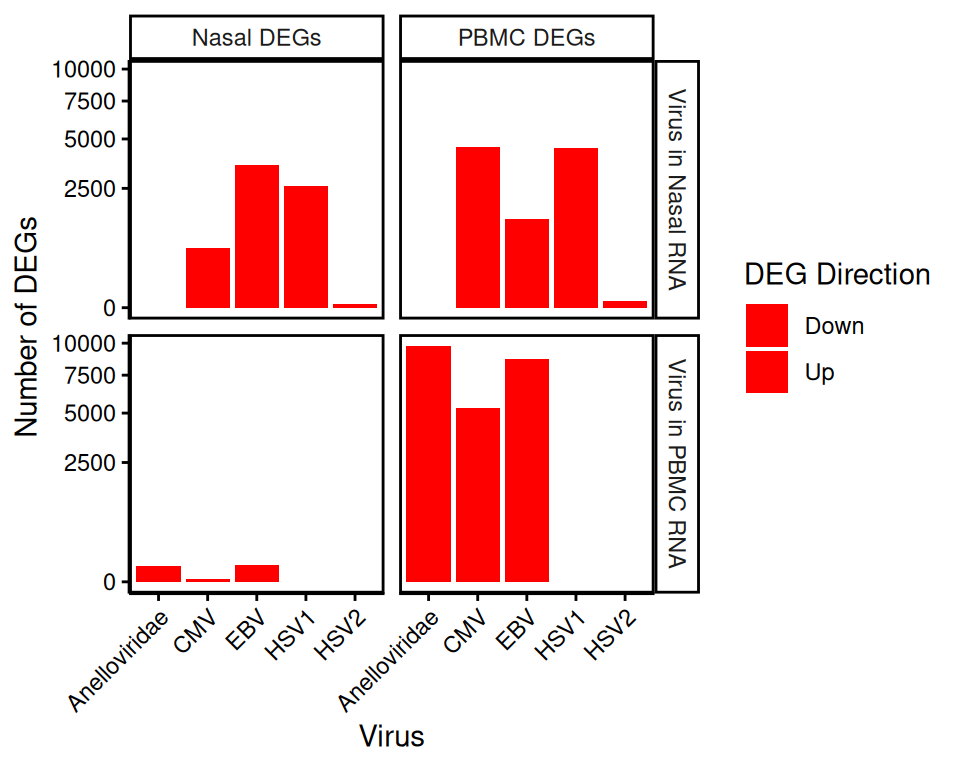
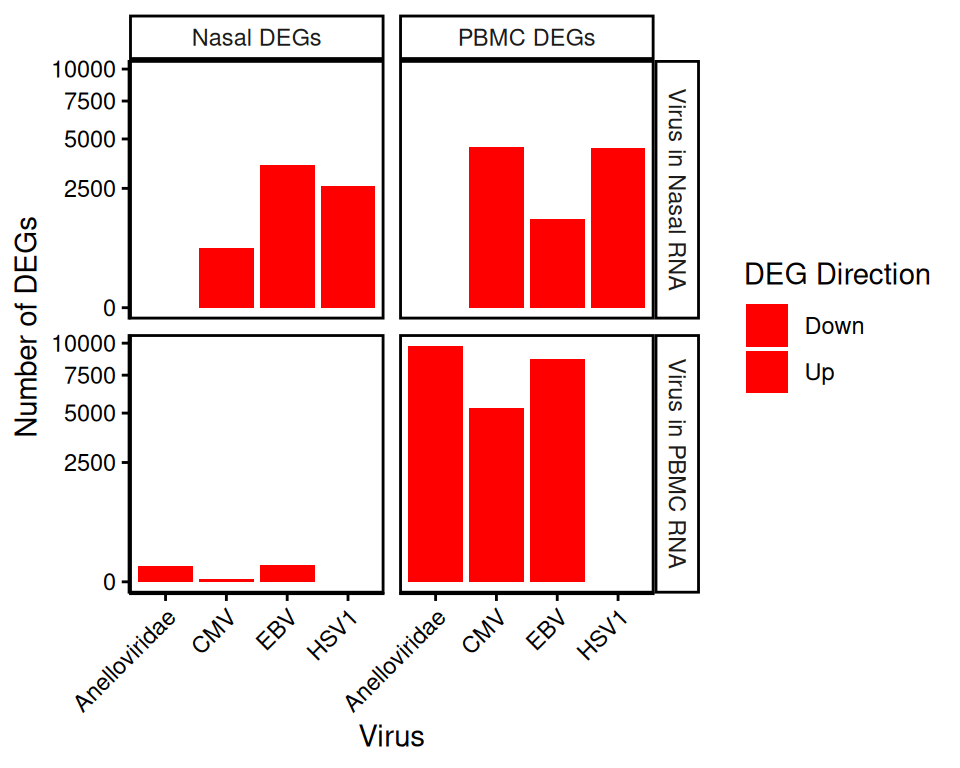
Final version of Figure 6

diff --git a/chronic_viruses_manuscript/Figure6/src/Figure6.html b/chronic_viruses_manuscript/Figure6/src/Figure6.html
@@ -141,14 +141,16 @@ The following object is masked from 'package:readr':
 <span id="cb5-8"><a href="#cb5-8" aria-hidden="true" tabindex="-1"></a>         <span class="sc">-</span><span class="fu">starts_with</span>(<span class="st">"Enterovirus"</span>),</span>
 <span id="cb5-9"><a href="#cb5-9" aria-hidden="true" tabindex="-1"></a>         <span class="sc">-</span><span class="fu">starts_with</span>(<span class="st">"Anelloviridae.ea"</span>),</span>
 <span id="cb5-10"><a href="#cb5-10" aria-hidden="true" tabindex="-1"></a>         <span class="sc">-</span><span class="fu">starts_with</span>(<span class="st">"Anelloviridae.nasal"</span>),</span>
-<span id="cb5-11"><a href="#cb5-11" aria-hidden="true" tabindex="-1"></a>         <span class="sc">-</span><span class="fu">ends_with</span>(<span class="st">".ea"</span>)) <span class="sc">%&gt;%</span></span>
-<span id="cb5-12"><a href="#cb5-12" aria-hidden="true" tabindex="-1"></a>  dplyr<span class="sc">::</span><span class="fu">rename</span>(<span class="st">"Betacoronavirus.nasal"</span> <span class="ot">=</span> <span class="st">"SARS-CoV-2.nasal"</span>)</span></code><button title="Copy to Clipboard" class="code-copy-button"><i class="bi"></i></button></pre></div>
+<span id="cb5-11"><a href="#cb5-11" aria-hidden="true" tabindex="-1"></a>         <span class="sc">-</span><span class="fu">starts_with</span>(<span class="st">"Human alphaherpesvirus 1 (HSV1).pbmc"</span>),</span>
+<span id="cb5-12"><a href="#cb5-12" aria-hidden="true" tabindex="-1"></a>         <span class="sc">-</span><span class="fu">starts_with</span>(<span class="st">"Human alphaherpesvirus 2 (HSV2).pbmc"</span>),</span>
+<span id="cb5-13"><a href="#cb5-13" aria-hidden="true" tabindex="-1"></a>         <span class="sc">-</span><span class="fu">ends_with</span>(<span class="st">".ea"</span>)) <span class="sc">%&gt;%</span></span>
+<span id="cb5-14"><a href="#cb5-14" aria-hidden="true" tabindex="-1"></a>  dplyr<span class="sc">::</span><span class="fu">rename</span>(<span class="st">"Betacoronavirus.nasal"</span> <span class="ot">=</span> <span class="st">"SARS-CoV-2.nasal"</span>)</span></code><button title="Copy to Clipboard" class="code-copy-button"><i class="bi"></i></button></pre></div>
 <div class="cell-output cell-output-stderr">
 <pre><code>New names:
-Rows: 4654 Columns: 31
+Rows: 4654 Columns: 33
 ── Column specification
 ──────────────────────────────────────────────────────── Delimiter: "," chr
-(1): event_id dbl (30): ...1, Human gammaherpesvirus 4 (EBV).pbmc, Human
+(1): event_id dbl (32): ...1, Human gammaherpesvirus 4 (EBV).pbmc, Human
 betaherpesvirus 5...
 ℹ Use `spec()` to retrieve the full column specification for this data. ℹ
 Specify the column types or set `show_col_types = FALSE` to quiet this message.
@@ -278,9 +280,9 @@ vignette('accessing_ensembl', package = 'biomaRt')Error in curl::curl_fetch_memo
 <span id="cb12-96"><a href="#cb12-96" aria-hidden="true" tabindex="-1"></a>tmp <span class="ot">&lt;-</span> tmp[tmp<span class="sc">$</span>event_id <span class="sc">%in%</span> <span class="fu">rownames</span>(counts), ]</span>
 <span id="cb12-97"><a href="#cb12-97" aria-hidden="true" tabindex="-1"></a></span>
 <span id="cb12-98"><a href="#cb12-98" aria-hidden="true" tabindex="-1"></a>metaa <span class="ot">&lt;-</span> tmp <span class="sc">%&gt;%</span> <span class="fu">left_join</span>(virus_pos)</span>
-<span id="cb12-99"><a href="#cb12-99" aria-hidden="true" tabindex="-1"></a>design <span class="ot">&lt;-</span> <span class="fu">model.matrix</span>(<span class="sc">~</span> discretized_admit_age_quantile <span class="sc">+</span> sex <span class="sc">+</span> event_type <span class="sc">+</span> trajectory_group <span class="sc">+</span> Betacoronavirus.nasal <span class="sc">+</span> group, <span class="do">## Can consider adding TG back in</span></span>
+<span id="cb12-99"><a href="#cb12-99" aria-hidden="true" tabindex="-1"></a>design <span class="ot">&lt;-</span> <span class="fu">model.matrix</span>(<span class="sc">~</span> discretized_admit_age_quantile <span class="sc">+</span> sex <span class="sc">+</span> event_type <span class="sc">+</span> trajectory_group <span class="sc">+</span> Betacoronavirus.nasal <span class="sc">+</span> group, </span>
 <span id="cb12-100"><a href="#cb12-100" aria-hidden="true" tabindex="-1"></a>                       <span class="at">data=</span>metaa) </span>
-<span id="cb12-101"><a href="#cb12-101" aria-hidden="true" tabindex="-1"></a></span>
+<span id="cb12-101"><a href="#cb12-101" aria-hidden="true" tabindex="-1"></a><span class="fu">browser</span>()</span>
 <span id="cb12-102"><a href="#cb12-102" aria-hidden="true" tabindex="-1"></a>vwts <span class="ot">&lt;-</span> <span class="fu">voom</span>(<span class="fu">t</span>(counts), </span>
 <span id="cb12-103"><a href="#cb12-103" aria-hidden="true" tabindex="-1"></a>             <span class="at">design =</span> design,</span>
 <span id="cb12-104"><a href="#cb12-104" aria-hidden="true" tabindex="-1"></a>             <span class="at">normalize.method =</span> <span class="st">"quantile"</span>,</span>
@@ -971,25 +973,26 @@ Specify the column types or set `show_col_types = FALSE` to quiet this message.
 <span id="cb72-5"><a href="#cb72-5" aria-hidden="true" tabindex="-1"></a><span class="do">## transformed). Easiest solution: just remove the color distinguishing</span></span>
 <span id="cb72-6"><a href="#cb72-6" aria-hidden="true" tabindex="-1"></a>ggs8 <span class="ot">&lt;-</span> <span class="fu">rbind.data.frame</span>(pbmc_diff <span class="sc">%&gt;%</span> <span class="fu">mutate</span>(<span class="at">omic =</span> <span class="st">"PBMC DEGs"</span>),</span>
 <span id="cb72-7"><a href="#cb72-7" aria-hidden="true" tabindex="-1"></a>                 nasal_diff <span class="sc">%&gt;%</span> <span class="fu">mutate</span>(<span class="at">omic =</span> <span class="st">"Nasal DEGs"</span>)) <span class="sc">%&gt;%</span></span>
-<span id="cb72-8"><a href="#cb72-8" aria-hidden="true" tabindex="-1"></a>  <span class="fu">mutate</span>(<span class="at">Tissue =</span> <span class="fu">ifelse</span>(<span class="fu">grepl</span>(<span class="st">".nasal"</span>, virus), <span class="st">"Virus in Nasal RNA"</span>, <span class="st">"Virus in PBMC RNA"</span>)) <span class="sc">%&gt;%</span></span>
-<span id="cb72-9"><a href="#cb72-9" aria-hidden="true" tabindex="-1"></a>  <span class="fu">mutate</span>(<span class="at">virus =</span> <span class="fu">gsub</span>(<span class="st">"</span><span class="sc">\\</span><span class="st">..*"</span>, <span class="st">""</span>, virus)) <span class="sc">%&gt;%</span></span>
-<span id="cb72-10"><a href="#cb72-10" aria-hidden="true" tabindex="-1"></a>  <span class="fu">mutate</span>(<span class="at">virus =</span> <span class="fu">gsub</span>(<span class="st">".*</span><span class="sc">\\</span><span class="st">("</span>, <span class="st">""</span>, <span class="fu">gsub</span>(<span class="st">")"</span>, <span class="st">""</span>, virus))) <span class="sc">%&gt;%</span></span>
-<span id="cb72-11"><a href="#cb72-11" aria-hidden="true" tabindex="-1"></a>  <span class="fu">mutate</span>(<span class="at">virus =</span> <span class="fu">gsub</span>(<span class="st">"Simplexvirus"</span>, <span class="st">"HSV"</span>, virus)) <span class="sc">%&gt;%</span></span>
-<span id="cb72-12"><a href="#cb72-12" aria-hidden="true" tabindex="-1"></a>  <span class="fu">mutate</span>(<span class="at">direction =</span> <span class="fu">ifelse</span>(logFC <span class="sc">&gt;</span> <span class="dv">0</span>, <span class="st">"Up"</span>, <span class="st">"Down"</span>)) <span class="sc">%&gt;%</span></span>
-<span id="cb72-13"><a href="#cb72-13" aria-hidden="true" tabindex="-1"></a>  <span class="fu">filter</span>(adj.P.Val <span class="sc">&lt;=</span> <span class="fl">0.01</span>) <span class="sc">%&gt;%</span></span>
-<span id="cb72-14"><a href="#cb72-14" aria-hidden="true" tabindex="-1"></a>  <span class="fu">group_by</span>(Tissue, omic, virus, direction) <span class="sc">%&gt;%</span></span>
-<span id="cb72-15"><a href="#cb72-15" aria-hidden="true" tabindex="-1"></a>  dplyr<span class="sc">::</span><span class="fu">summarize</span>(<span class="at">count =</span> <span class="fu">n</span>()) <span class="sc">%&gt;%</span></span>
-<span id="cb72-16"><a href="#cb72-16" aria-hidden="true" tabindex="-1"></a>  <span class="fu">ggplot</span>(<span class="fu">aes</span>(<span class="at">x=</span>virus, <span class="at">y =</span> count, <span class="at">fill =</span> direction)) <span class="sc">+</span></span>
-<span id="cb72-17"><a href="#cb72-17" aria-hidden="true" tabindex="-1"></a>  <span class="fu">geom_bar</span>(<span class="at">stat =</span> <span class="st">"identity"</span>, <span class="at">position =</span> <span class="st">"stack"</span>) <span class="sc">+</span></span>
-<span id="cb72-18"><a href="#cb72-18" aria-hidden="true" tabindex="-1"></a>  <span class="fu">facet_grid</span>(Tissue <span class="sc">~</span> omic, <span class="at">drop =</span> <span class="cn">FALSE</span>) <span class="sc">+</span></span>
-<span id="cb72-19"><a href="#cb72-19" aria-hidden="true" tabindex="-1"></a>  <span class="fu">theme_classic</span>() <span class="sc">+</span></span>
-<span id="cb72-20"><a href="#cb72-20" aria-hidden="true" tabindex="-1"></a>  <span class="fu">theme</span>(<span class="at">axis.text.x =</span> <span class="fu">element_text</span>(<span class="at">angle =</span> <span class="dv">45</span>, <span class="at">vjust =</span> <span class="dv">1</span>, <span class="at">hjust=</span><span class="dv">1</span>)) <span class="sc">+</span></span>
-<span id="cb72-21"><a href="#cb72-21" aria-hidden="true" tabindex="-1"></a>  <span class="fu">ylab</span>(<span class="st">"Number of DEGs"</span>) <span class="sc">+</span></span>
-<span id="cb72-22"><a href="#cb72-22" aria-hidden="true" tabindex="-1"></a>  <span class="fu">scale_fill_manual</span>(<span class="at">values =</span> <span class="fu">c</span>(<span class="st">"red"</span>, <span class="st">"red"</span>), <span class="at">name =</span> <span class="st">"DEG Direction"</span>) <span class="sc">+</span></span>
-<span id="cb72-23"><a href="#cb72-23" aria-hidden="true" tabindex="-1"></a>  <span class="fu">theme</span>(<span class="at">axis.text =</span> <span class="fu">element_text</span>(<span class="at">color =</span> <span class="st">"black"</span>),</span>
-<span id="cb72-24"><a href="#cb72-24" aria-hidden="true" tabindex="-1"></a>        <span class="at">axis.ticks =</span> <span class="fu">element_line</span>(<span class="at">color =</span> <span class="st">"black"</span>),</span>
-<span id="cb72-25"><a href="#cb72-25" aria-hidden="true" tabindex="-1"></a>         <span class="at">panel.border =</span> <span class="fu">element_rect</span>(<span class="at">color =</span> <span class="st">"black"</span>, <span class="at">fill =</span> <span class="cn">NA</span>, <span class="at">size =</span> <span class="dv">1</span>)) <span class="sc">+</span></span>
-<span id="cb72-26"><a href="#cb72-26" aria-hidden="true" tabindex="-1"></a>  <span class="fu">xlab</span>(<span class="st">"Virus"</span>) <span class="sc">+</span>  <span class="fu">scale_y_continuous</span>(<span class="at">trans=</span><span class="st">'sqrt'</span>)</span></code><button title="Copy to Clipboard" class="code-copy-button"><i class="bi"></i></button></pre></div>
+<span id="cb72-8"><a href="#cb72-8" aria-hidden="true" tabindex="-1"></a>  <span class="fu">filter</span>(virus <span class="sc">!=</span> <span class="st">"Human alphaherpesvirus 2 (HSV2).nasal"</span>) <span class="sc">%&gt;%</span></span>
+<span id="cb72-9"><a href="#cb72-9" aria-hidden="true" tabindex="-1"></a>  <span class="fu">mutate</span>(<span class="at">Tissue =</span> <span class="fu">ifelse</span>(<span class="fu">grepl</span>(<span class="st">".nasal"</span>, virus), <span class="st">"Virus in Nasal RNA"</span>, <span class="st">"Virus in PBMC RNA"</span>)) <span class="sc">%&gt;%</span></span>
+<span id="cb72-10"><a href="#cb72-10" aria-hidden="true" tabindex="-1"></a>  <span class="fu">mutate</span>(<span class="at">virus =</span> <span class="fu">gsub</span>(<span class="st">"</span><span class="sc">\\</span><span class="st">..*"</span>, <span class="st">""</span>, virus)) <span class="sc">%&gt;%</span></span>
+<span id="cb72-11"><a href="#cb72-11" aria-hidden="true" tabindex="-1"></a>  <span class="fu">mutate</span>(<span class="at">virus =</span> <span class="fu">gsub</span>(<span class="st">".*</span><span class="sc">\\</span><span class="st">("</span>, <span class="st">""</span>, <span class="fu">gsub</span>(<span class="st">")"</span>, <span class="st">""</span>, virus))) <span class="sc">%&gt;%</span></span>
+<span id="cb72-12"><a href="#cb72-12" aria-hidden="true" tabindex="-1"></a>  <span class="fu">mutate</span>(<span class="at">virus =</span> <span class="fu">gsub</span>(<span class="st">"Simplexvirus"</span>, <span class="st">"HSV"</span>, virus)) <span class="sc">%&gt;%</span></span>
+<span id="cb72-13"><a href="#cb72-13" aria-hidden="true" tabindex="-1"></a>  <span class="fu">mutate</span>(<span class="at">direction =</span> <span class="fu">ifelse</span>(logFC <span class="sc">&gt;</span> <span class="dv">0</span>, <span class="st">"Up"</span>, <span class="st">"Down"</span>)) <span class="sc">%&gt;%</span></span>
+<span id="cb72-14"><a href="#cb72-14" aria-hidden="true" tabindex="-1"></a>  <span class="fu">filter</span>(adj.P.Val <span class="sc">&lt;=</span> <span class="fl">0.01</span>) <span class="sc">%&gt;%</span></span>
+<span id="cb72-15"><a href="#cb72-15" aria-hidden="true" tabindex="-1"></a>  <span class="fu">group_by</span>(Tissue, omic, virus, direction) <span class="sc">%&gt;%</span></span>
+<span id="cb72-16"><a href="#cb72-16" aria-hidden="true" tabindex="-1"></a>  dplyr<span class="sc">::</span><span class="fu">summarize</span>(<span class="at">count =</span> <span class="fu">n</span>()) <span class="sc">%&gt;%</span></span>
+<span id="cb72-17"><a href="#cb72-17" aria-hidden="true" tabindex="-1"></a>  <span class="fu">ggplot</span>(<span class="fu">aes</span>(<span class="at">x=</span>virus, <span class="at">y =</span> count, <span class="at">fill =</span> direction)) <span class="sc">+</span></span>
+<span id="cb72-18"><a href="#cb72-18" aria-hidden="true" tabindex="-1"></a>  <span class="fu">geom_bar</span>(<span class="at">stat =</span> <span class="st">"identity"</span>, <span class="at">position =</span> <span class="st">"stack"</span>) <span class="sc">+</span></span>
+<span id="cb72-19"><a href="#cb72-19" aria-hidden="true" tabindex="-1"></a>  <span class="fu">facet_grid</span>(Tissue <span class="sc">~</span> omic, <span class="at">drop =</span> <span class="cn">FALSE</span>) <span class="sc">+</span></span>
+<span id="cb72-20"><a href="#cb72-20" aria-hidden="true" tabindex="-1"></a>  <span class="fu">theme_classic</span>() <span class="sc">+</span></span>
+<span id="cb72-21"><a href="#cb72-21" aria-hidden="true" tabindex="-1"></a>  <span class="fu">theme</span>(<span class="at">axis.text.x =</span> <span class="fu">element_text</span>(<span class="at">angle =</span> <span class="dv">45</span>, <span class="at">vjust =</span> <span class="dv">1</span>, <span class="at">hjust=</span><span class="dv">1</span>)) <span class="sc">+</span></span>
+<span id="cb72-22"><a href="#cb72-22" aria-hidden="true" tabindex="-1"></a>  <span class="fu">ylab</span>(<span class="st">"Number of DEGs"</span>) <span class="sc">+</span></span>
+<span id="cb72-23"><a href="#cb72-23" aria-hidden="true" tabindex="-1"></a>  <span class="fu">scale_fill_manual</span>(<span class="at">values =</span> <span class="fu">c</span>(<span class="st">"red"</span>, <span class="st">"red"</span>), <span class="at">name =</span> <span class="st">"DEG Direction"</span>) <span class="sc">+</span></span>
+<span id="cb72-24"><a href="#cb72-24" aria-hidden="true" tabindex="-1"></a>  <span class="fu">theme</span>(<span class="at">axis.text =</span> <span class="fu">element_text</span>(<span class="at">color =</span> <span class="st">"black"</span>),</span>
+<span id="cb72-25"><a href="#cb72-25" aria-hidden="true" tabindex="-1"></a>        <span class="at">axis.ticks =</span> <span class="fu">element_line</span>(<span class="at">color =</span> <span class="st">"black"</span>),</span>
+<span id="cb72-26"><a href="#cb72-26" aria-hidden="true" tabindex="-1"></a>         <span class="at">panel.border =</span> <span class="fu">element_rect</span>(<span class="at">color =</span> <span class="st">"black"</span>, <span class="at">fill =</span> <span class="cn">NA</span>, <span class="at">size =</span> <span class="dv">1</span>)) <span class="sc">+</span></span>
+<span id="cb72-27"><a href="#cb72-27" aria-hidden="true" tabindex="-1"></a>  <span class="fu">xlab</span>(<span class="st">"Virus"</span>) <span class="sc">+</span>  <span class="fu">scale_y_continuous</span>(<span class="at">trans=</span><span class="st">'sqrt'</span>)</span></code><button title="Copy to Clipboard" class="code-copy-button"><i class="bi"></i></button></pre></div>
 <div class="cell-output cell-output-stderr">
 <pre><code>`summarise()` has grouped output by 'Tissue', 'omic', 'virus'. You can override
 using the `.groups` argument.</code></pre>
